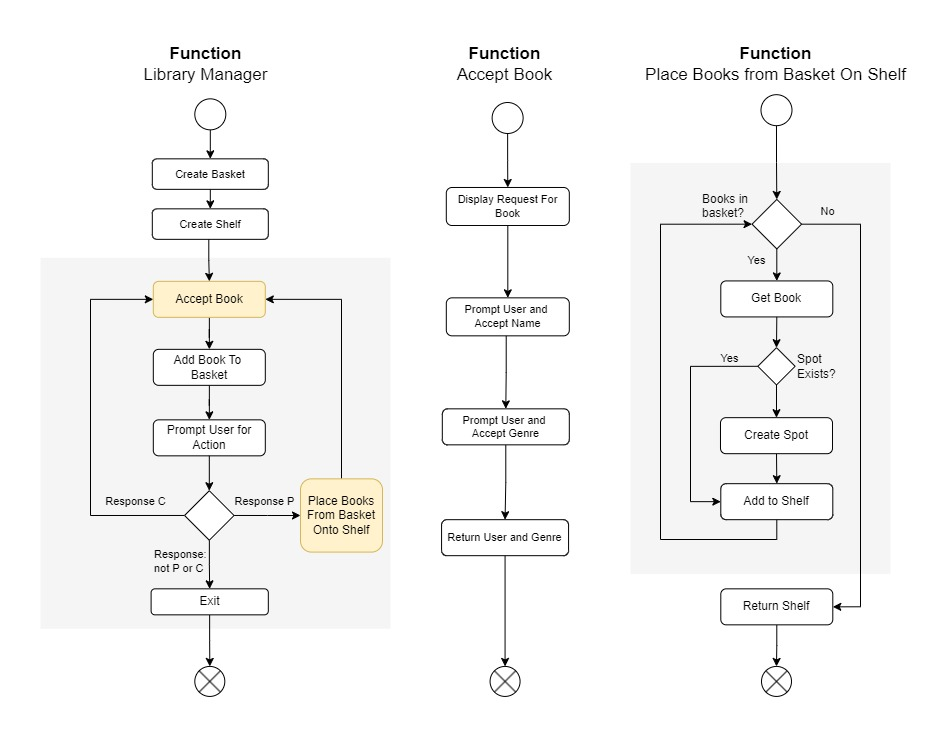
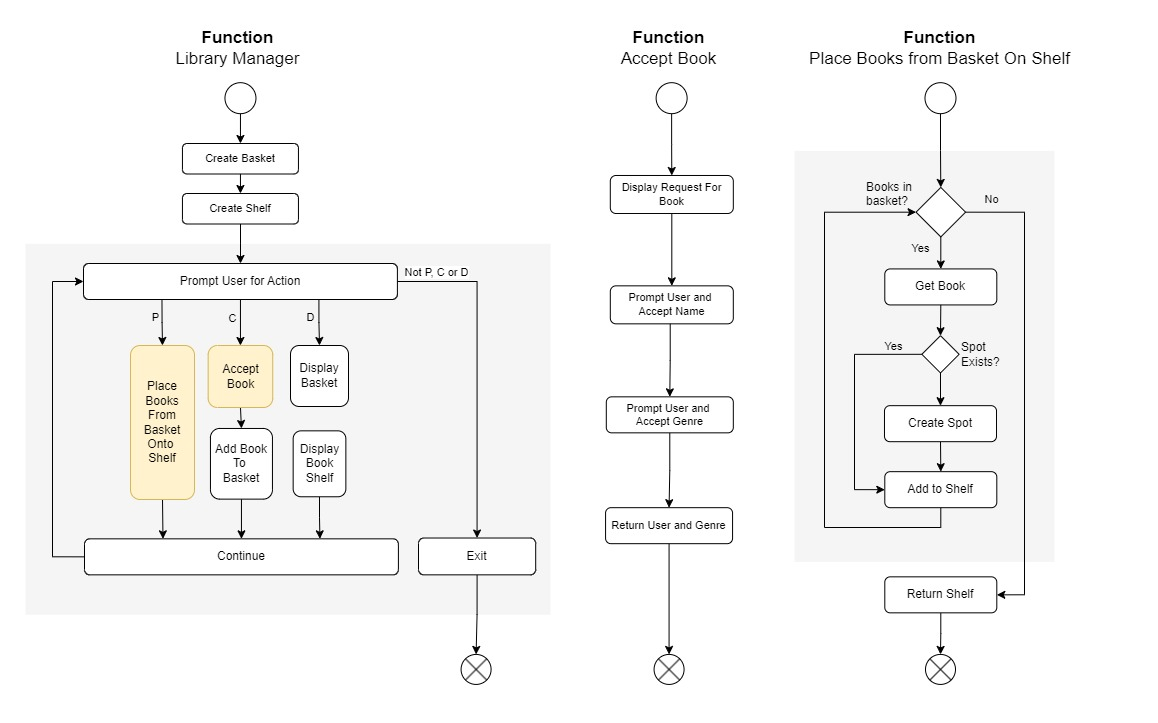
Update program and flow diagram.

diff --git a/sample/library_manager_v2/library_manager.py b/sample/library_manager_v2/library_manager.py
@@ -2,74 +2,100 @@
 import sys
 
 '''{"type":"adli_abstraction_id","value":"2"}'''
-def place_book_on_shelf(book_shelf, name, genre):
+def place_books_on_shelf_from_basket(book_shelf, basket):
 
     '''{"type":"adli_abstraction_id","value":"3"}'''
-    print(f"Accepted book: {name} (Genre: {genre})")
-    
-    '''{"type":"adli_abstraction_id","value":"4"}'''
-    firstLetter = name[0].upper()
+    while len(basket) > 0:
+        '''{"type":"adli_abstraction_id","value":"4"}'''
+        book = basket.pop()
 
-    '''{"type":"adli_abstraction_id","value":"5"}'''
-    if (firstLetter not in book_shelf):
+        '''{"type":"adli_abstraction_id","value":"5"}'''
+        print(f"Accepted book: {book['name']} (Genre: {book['genre']})")
+        
         '''{"type":"adli_abstraction_id","value":"6"}'''
-        book_shelf[firstLetter] = []
-    else:
-        '''{"type":"adli_abstraction_id","value":"8"}'''
-        print("Slot for book already exists.")
+        firstLetter = book['name'][0].upper()
 
-    '''{"type":"adli_abstraction_id","value":"9"}'''
-    book_shelf[firstLetter].append(name)
+        if (firstLetter not in book_shelf):
+            '''{"type":"adli_abstraction_id","value":"8"}'''
+            book_shelf[firstLetter] = []
+        else:
+            '''{"type":"adli_abstraction_id","value":"9"}'''
+            print("Slot for book already exists.")
 
-    '''{"type":"adli_abstraction_id","value":"26"}'''
+        '''{"type":"adli_abstraction_id","value":"10"}'''
+        book_shelf[firstLetter].append(book['name'])
+
+    '''{"type":"adli_abstraction_id","value":"11"}'''
     return book_shelf
 
 
-'''{"type":"adli_abstraction_id","value":"10"}'''
+'''{"type":"adli_abstraction_id","value":"12"}'''
 def accept_book():
 
-    '''{"type":"adli_abstraction_id","value":"11"}'''
+    '''{"type":"adli_abstraction_id","value":"13"}'''
     print("\nEnter book details:")
         
-    '''{"type":"adli_abstraction_id","value":"12"}'''
+    '''{"type":"adli_abstraction_id","value":"14"}'''
     name = input("Book name: ")
 
-    '''{"type":"adli_abstraction_id","value":"13"}'''
+    '''{"type":"adli_abstraction_id","value":"15"}'''
     genre = input("Genre: ")
 
-    '''{"type":"adli_abstraction_id","value":"14"}'''
+    '''{"type":"adli_abstraction_id","value":"16"}'''
     return {"name":name, "genre":genre}
 
 
-'''{"type":"adli_abstraction_id","value":"15"}'''
+'''{"type":"adli_abstraction_id","value":"17"}'''
 def library_manager():
 
-    '''{"type":"adli_abstraction_id","value":"16"}'''
+    '''{"type":"adli_abstraction_id","value":"18"}'''
     book_shelf = {}
 
-    '''{"type":"adli_abstraction_id","value":"17"}'''
+    '''{"type":"adli_abstraction_id","value":"19"}'''
+    basket = []
+
+    '''{"type":"adli_abstraction_id","value":"20"}'''
     while True:
-
-        '''{"type":"adli_abstraction_id","value":"18"}'''
-        book_details = accept_book()
-
-        '''{"type":"adli_abstraction_id","value":"19"}'''
-        book_shelf = place_book_on_shelf(book_shelf, book_details["name"], book_details["genre"])
         
-        '''{"type":"adli_abstraction_id","value":"20"}'''
-        more = input("Add another book? (y): ").lower()
-        
-        '''{"type":"adli_abstraction_id","value":"21"}'''
-        if more != "y":
+        '''{"type":"adli_abstraction_id","value":"23"}'''
+        response = input(
+            "\n==========================\n"\
+            "         Menu:\n" \
+            "==========================\n"\
+            "Enter a: Add book.\n" \
+            "Enter p: Place books on shelf and continue.\n" \
+            "Enter d: Display contents of basket and book shelf.\n" \
+            "Enter any other key: Exit\n" \
+            "\nResponse:"
+        ).lower()
+
+        if response == "a":
+            '''{"type":"adli_abstraction_id","value":"21"}'''
+            book_details = accept_book()
 
             '''{"type":"adli_abstraction_id","value":"22"}'''
+            basket.append(book_details)
+
+        elif response == "p":
+            '''{"type":"adli_abstraction_id","value":"25"}'''
+            book_shelf = place_books_on_shelf_from_basket(book_shelf, basket)
+
+        elif response == "d":
+            '''{"type":"adli_abstraction_id","value":"25"}'''
+            print("\nBasket:", basket)
+
+            '''{"type":"adli_abstraction_id","value":"25"}'''
+            print("Book Shelf:", book_shelf)
+
+        else:
+            '''{"type":"adli_abstraction_id","value":"26"}'''
             break
 
-    '''{"type":"adli_abstraction_id","value":"23"}'''
-    print("Exiting library manager, goodbye.")
+    '''{"type":"adli_abstraction_id","value":"27"}'''
+    print("\nExiting library manager, goodbye.")
 
 
-'''{"type":"adli_abstraction_id","value":"24"}'''
+'''{"type":"adli_abstraction_id","value":"28"}'''
 if __name__ == "__main__":
 
     '''{"type":"adli_abstraction_id","value":"25"}'''
